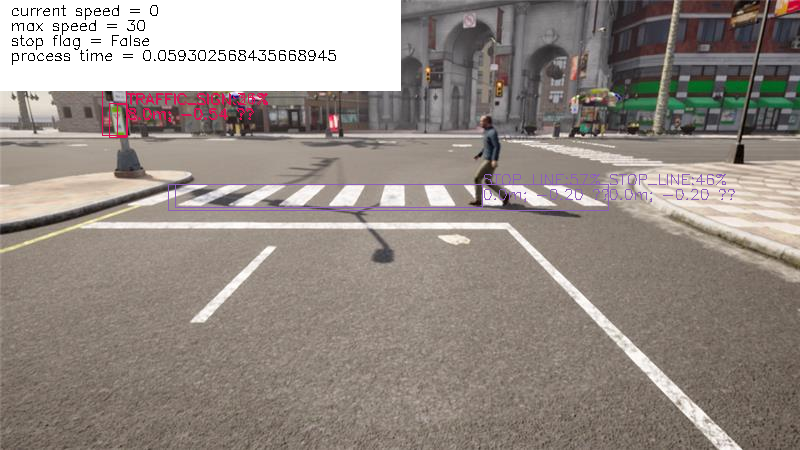
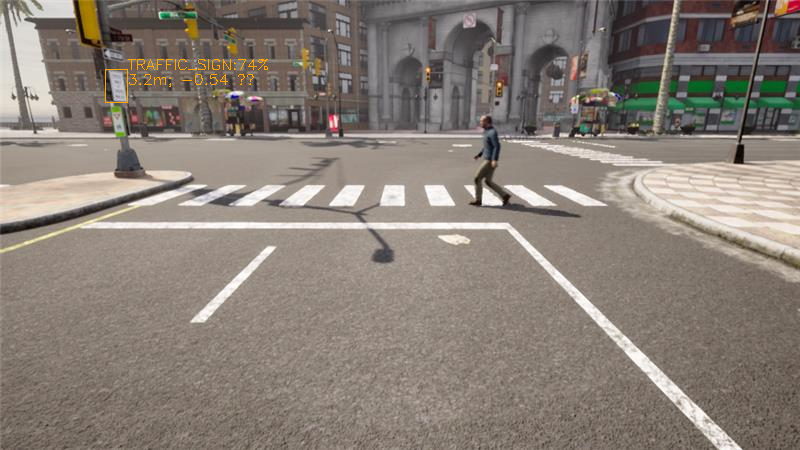
feat: time averaging

diff --git a/DAI/scripts/cv_imp_test.py b/DAI/scripts/cv_imp_test.py
@@ -13,7 +13,7 @@ from loguru import logger
 from ..cv import ComputerVisionModuleImp
 from ..interfaces import CarlaData, ObjectType
 from ..simulator import NumpyImage, NumpyLidar
-from ..utils import timeit
+from ..utils import timeit, timeit_n
 from ..visuals.visual_utils import (
     ObjectDTO,
     add_object_information,
@@ -34,6 +34,7 @@ def main(image_path: str) -> None:
         ),
         time_stamp=0,
         current_speed=0,
+        angle=0,
     )
     cv = ComputerVisionModuleImp()
 
@@ -42,11 +43,17 @@ def main(image_path: str) -> None:
     cv.process_data(data)
 
     # Real
-    result, time = timeit(lambda: cv.process_data(data))
+    results, time = timeit_n(lambda: cv.process_data(data), 10)
+    result = results[-1]
     logger.info(f"Finished in {time:.3}s")
     logger.debug(result)
     image_with_bb = add_object_information(
-        image, [ObjectDTO.from_object(obj, False) for obj in result.objects]
+        image,
+        [
+            ObjectDTO.from_object(obj, False)
+            for obj in result.objects
+            if obj.type == ObjectType.TRAFFIC_SIGN
+        ][:1],
     )
     information = {
         "current speed": result.current_speed,
@@ -55,10 +62,10 @@ def main(image_path: str) -> None:
         "process time": time,
         # "angle": angle,
     }
-    image_with_static = add_static_information(image_with_bb, information)
+    # image_with_static = add_static_information(image_with_bb, information)
 
     logger.info("Writing result to out.png")
-    cv2.imwrite("out.png", image_with_static)
+    cv2.imwrite("out.png", image_with_bb)
     traffic_signs = [
         detected_object
         for detected_object in result.objects

diff --git a/DAI/utils.py b/DAI/utils.py
@@ -1,7 +1,7 @@
 """A module that contains global helper functions"""
 
 import time
-from typing import Callable, Tuple, TypeVar
+from typing import Callable, List, Tuple, TypeVar
 
 T = TypeVar("T")
 
@@ -11,3 +11,14 @@ def timeit(callable: Callable[[], T]) -> Tuple[T, float]:
     result = callable()
     end = time.time()
     return result, end - start
+
+
+def timeit_n(callable: Callable[[], T], n: int) -> Tuple[List[T], float]:
+    """time the callable n times and return each result and the average time"""
+    results = []
+    average_time = 0.0
+    for i in range(n):
+        result, time = timeit(callable)
+        results.append(result)
+        average_time += time / n
+    return results, time
